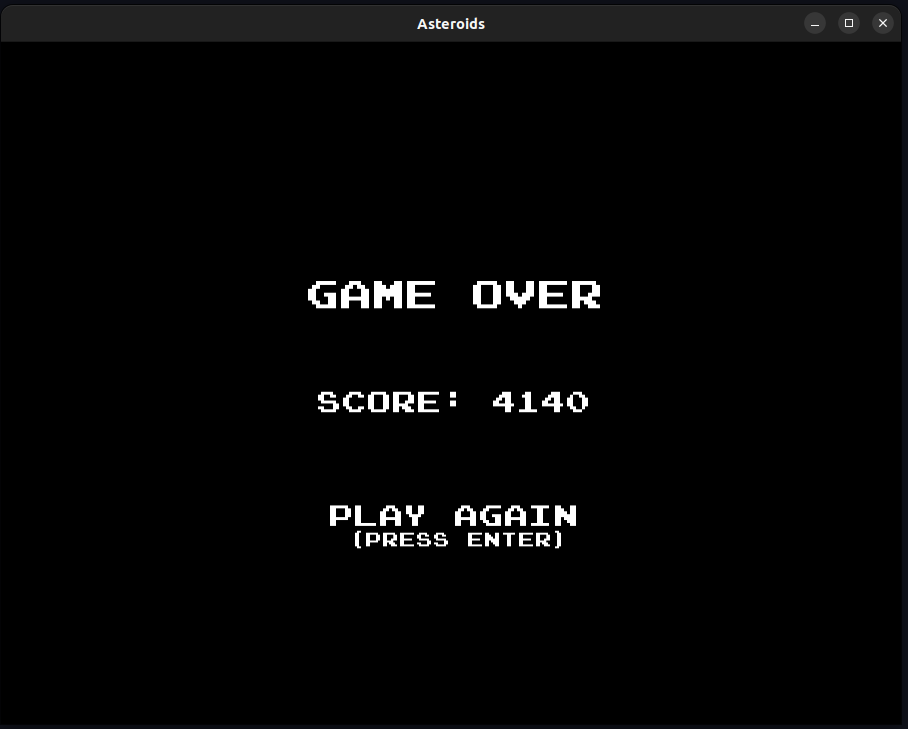
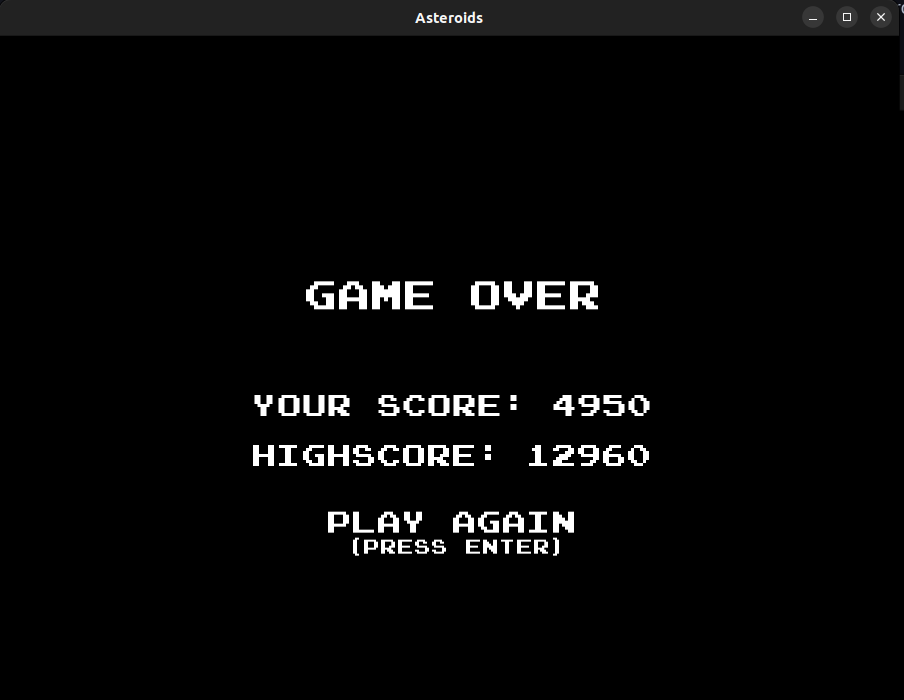
Add simple highscore system

diff --git a/logic/logic.cpp b/logic/logic.cpp
@@ -2,6 +2,7 @@
 
 #include <cmath>
 #include <SFML/Graphics/Shape.hpp>
+#include <fstream>
 
 int runGame(sf::RenderWindow &window, const sf::Font& font, GameState& state) {
     bool paused = false;
@@ -487,11 +488,29 @@ void gameOver(sf::RenderWindow &window, const int score, const sf::Font& font,
     // Score Text
     sf::Text scoreText;
     scoreText.setFont(font);
-    scoreText.setString("Score: " + std::to_string(score));
+    scoreText.setString("your Score: " + std::to_string(score));
     scoreText.setCharacterSize(30);
     scoreText.setFillColor(sf::Color::White);
     scoreText.setPosition(
             SIZE_X / 2.f - scoreText.getLocalBounds().width / 2, SIZE_Y / 2.f);
+
+    // High Score
+    int highscore = readHighScore();
+    if (score > highscore) {
+        writeHighScore(score);
+        highscore = score;
+    }
+
+    // High Score Text
+    sf::Text highscoreText;
+    highscoreText.setFont(font);
+    highscoreText.setString("Highscore: " + std::to_string(highscore));
+    highscoreText.setCharacterSize(30);
+    highscoreText.setFillColor(sf::Color::White);
+    highscoreText.setPosition(
+            SIZE_X / 2.f - highscoreText.getLocalBounds().width / 2,
+            scoreText.getPosition().y + 50);
+
 
     // "Play Again" Button
     sf::Text playAgainText;
@@ -518,6 +537,7 @@ void gameOver(sf::RenderWindow &window, const int score, const sf::Font& font,
 
     window.clear();
     window.draw(gameOverText);
+    window.draw(highscoreText);
     window.draw(scoreText);
     window.draw(playAgainText);
     window.draw(pressEnterText);
@@ -541,6 +561,24 @@ void gameOver(sf::RenderWindow &window, const int score, const sf::Font& font,
             }
         }
     }
+}
+
+int readHighScore() {
+    std::ifstream file("highscore.txt");
+    int highscore = 0;
+
+    if (file.is_open()) file >> highscore;
+    // creates the txt file for the first time
+    else writeHighScore(0);
+
+    file.close();
+    return highscore;
+}
+
+void writeHighScore(int score) {
+    std::ofstream file("highscore.txt");
+    if (file.is_open()) file << score;
+    file.close();
 }
 
 bool shot = false; // shoot button pressed ?

diff --git a/logic/logic.h b/logic/logic.h
@@ -41,6 +41,12 @@ void drawNumber(sf::RenderWindow &window, int n, sf::Vector2f pos);
 // Draws the remaining lives of the spaceship on the screen
 void drawLives(sf::RenderWindow &window, const SpaceShip& spaceship);
 
+// Reads the current Highscore from a txt file
+int readHighScore();
+
+// Writes the Highscore in the same txt file
+void writeHighScore(int score);
+
 // Handles user input for controlling the spaceship with a Controller
 void controllerInput(SpaceShip& spaceship, bool& paused, float delta);
 

diff --git a/README.md b/README.md
@@ -61,4 +61,4 @@ make
 
 ### Note
 
-This is my first C++ project, aimed at learning the language. I built it from scratch. Thanks for playing^^
+This is my first C++ project, built from scratch and aimed at learning the language. Thanks for playing^^
